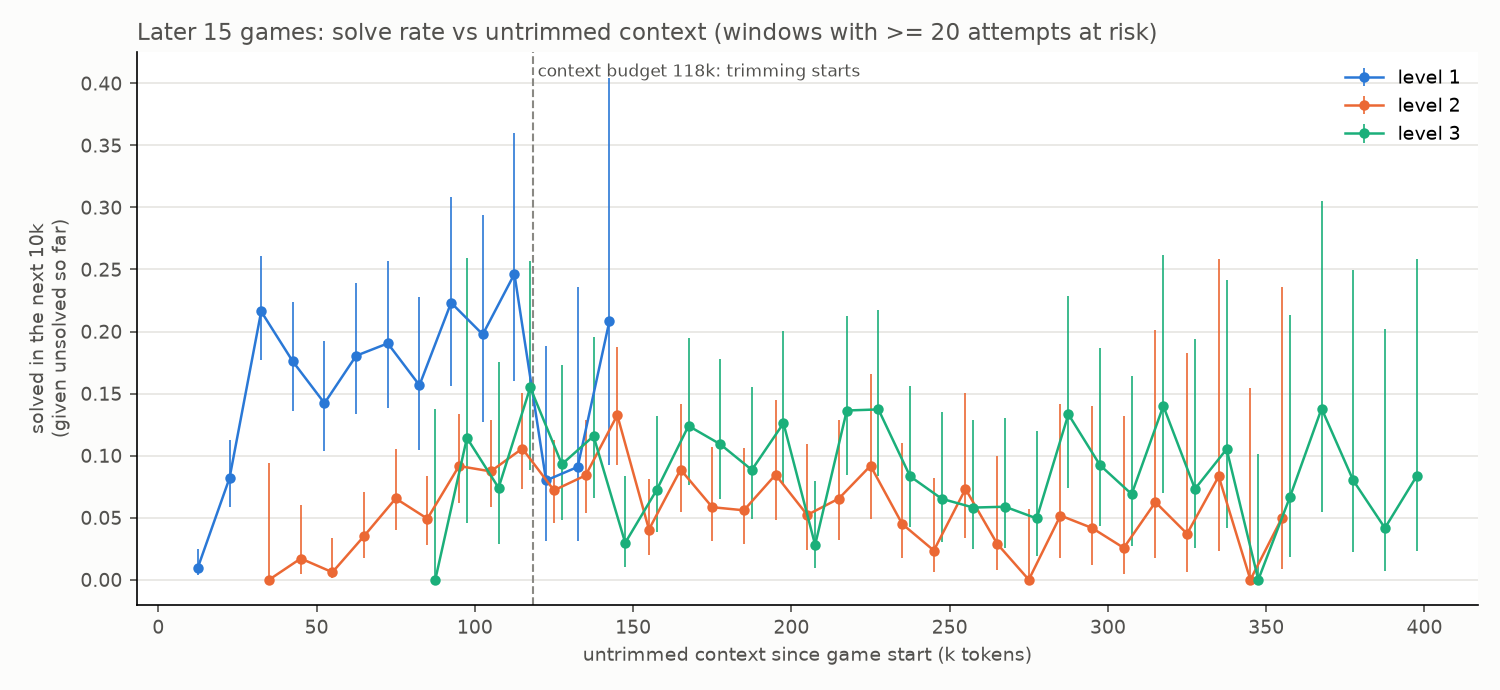
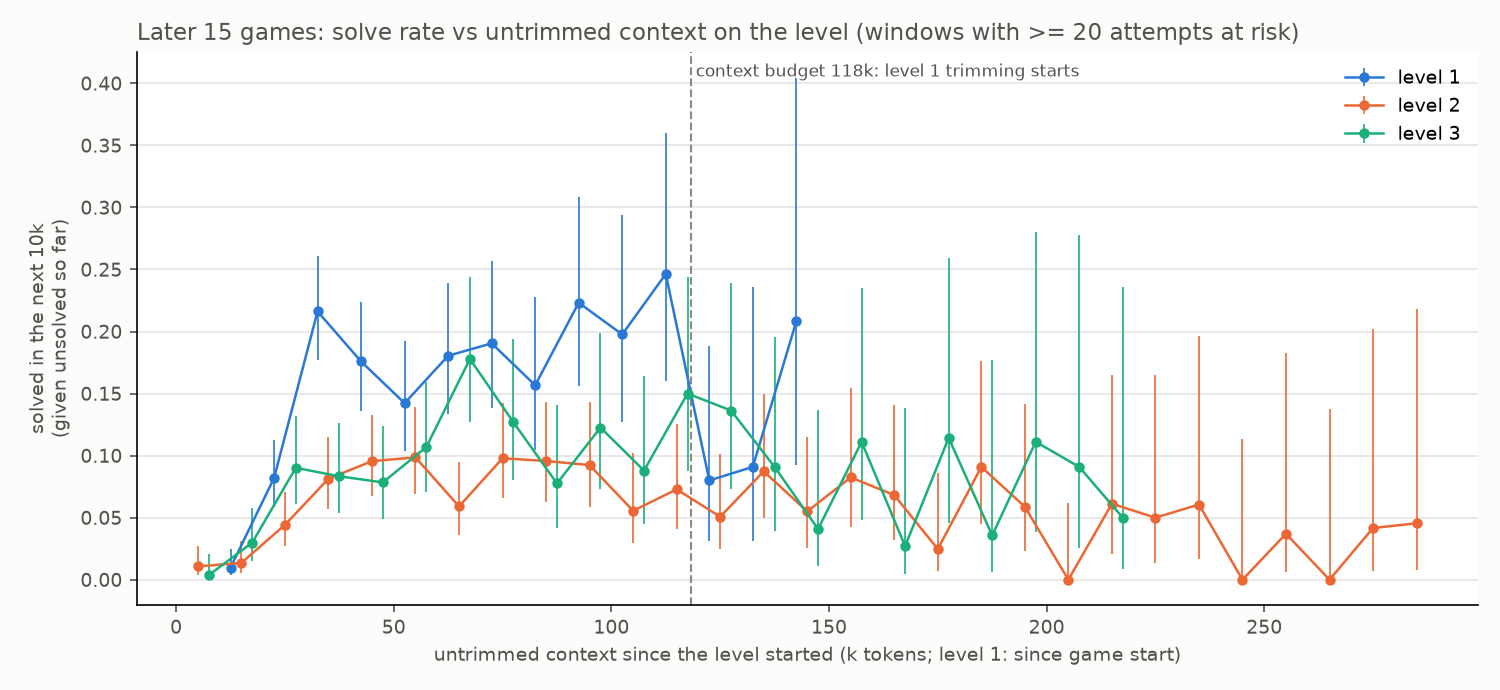
Measure solve-rate x from each level's start (level 1 from game start)

diff --git a/docs/harness/scripts/solve_rate_vs_context.py b/docs/harness/scripts/solve_rate_vs_context.py
@@ -185,9 +185,14 @@ def wilson(k, n, z=1.96):
 def main():
     coef = calibrate()
     df = attempts(coef)
+    # x = untrimmed context added since the level started; level 1 counts from
+    # game start, so its base prompt is included and the budget line applies
+    later = df.level > 1
+    df.loc[later, "end"] = df.loc[later, "end"] - df.loc[later, "start"]
+    df.loc[later, "start"] = 0.0
     for level in (1, 2, 3):
         d = df[df.level == level]
-        print(f"level {level}: {d.solved.sum()}/{len(d)} solved; start median {d.start.median() / 1000:.0f}k, "
+        print(f"level {level}: {d.solved.sum()}/{len(d)} solved; "
               f"solve point median {d[d.solved].end.median() / 1000:.0f}k")
     fig, ax = plt.subplots(figsize=(10, 4.6))
     for level, shift in ((1, -2.5), (2, 0), (3, 2.5)):
@@ -198,17 +203,17 @@ def main():
         ax.errorbar(x, t.rate, yerr=[t.rate - ci[:, 0], ci[:, 1] - t.rate], fmt="o-", color=COLORS[level],
                     markersize=4, linewidth=1.2, elinewidth=0.8, label=f"level {level}")
     ax.axvline(BUDGET / 1000, color=MUTED, linestyle="--", linewidth=1)
-    ax.text(BUDGET / 1000, 0.98, f" context budget {BUDGET / 1000:.0f}k: trimming starts", color=INK, fontsize=8,
+    ax.text(BUDGET / 1000, 0.98, f" context budget {BUDGET / 1000:.0f}k: level 1 trimming starts", color=INK, fontsize=8,
             va="top", transform=ax.get_xaxis_transform())
     for side in ("top", "right"):
         ax.spines[side].set_visible(False)
     ax.grid(axis="y", color="#e6e5e1", linewidth=0.8)
     ax.set_axisbelow(True)
     ax.tick_params(colors=INK, labelsize=9)
-    ax.set_xlabel("untrimmed context since game start (k tokens)", color=INK, fontsize=9)
+    ax.set_xlabel("untrimmed context since the level started (k tokens; level 1: since game start)", color=INK, fontsize=9)
     ax.set_ylabel("solved in the next 10k\n(given unsolved so far)", color=INK, fontsize=9)
     ax.legend(frameon=False, fontsize=9, loc="upper right")
-    ax.set_title(f"Later 15 games: solve rate vs untrimmed context (windows with >= {MIN_AT_RISK} attempts at risk)",
+    ax.set_title(f"Later 15 games: solve rate vs untrimmed context on the level (windows with >= {MIN_AT_RISK} attempts at risk)",
                  color=INK, fontsize=11, loc="left")
     fig.tight_layout()
     os.makedirs(os.path.dirname(OUT), exist_ok=True)

diff --git a/docs/harness/solve-rate-vs-context.md b/docs/harness/solve-rate-vs-context.md
@@ -4,7 +4,7 @@ Question: on the 15 harder public games, does the chance of solving the current 
 
 ![Solve rate vs untrimmed context](images/solve-rate-vs-context.png)
 
-**Answer: level 1 dips at the trimming line; levels 2 and 3 do not.** Level 1 holds at roughly 15-25% per 10k tokens from 30k to 118k, then drops to about 8-9% in the next two windows. Level 2 climbs to about 9-11% by 90-140k, then sits near 5-8%. Level 3 stays at about 7-14% from 100k to 400k.
+**Answer: level 1 dips at the trimming line; levels 2 and 3 do not.** Level 1 holds at roughly 15-25% per 10k tokens from 30k to 118k, then drops to about 8-9% in the next two windows. Measured from the start of each level, level 2 ramps up over the first 40k to about 8-10%, holds there to about 100k, then sits near 5-7%. Level 3 ramps up over the first 50k, peaks at 13-18% around 60-80k, holds at about 10-15% to 130k, then falls off. Their trimming points vary with how full the context was when the level began, so the budget line applies to level 1 only.
 
 The level-1 dip: of attempts unsolved at 90k, 55/112 (49%) solved before 118k; of those unsolved at 118k, 16/54 (30%) solved before 150k (Fisher's exact on that 2x2 table: odds ratio 2.29, p = 0.020, optimistic because an attempt can be in both rows). It is not uniform: bp35 20/25 -> 2/5, g50t 10/19 -> 2/7 and cd82 6/12 -> 2/6 drop, while sk48 rises 4/26 -> 6/21. Part of it comes from which games are still on level 1 by then: 21 of the 54 attempts past 118k are sk48. Comparing within the same game, the odds ratio is 0.60 (95% CI 0.28-1.27, p = 0.18). The direction fits trimming hurting level 1, but this sample cannot separate it from hard games remaining.
 
@@ -19,7 +19,7 @@ Before trimming, level 1 gets easier as context grows. From 30k to 118k, within 
 
 ## Method
 
-**x-axis.** x is the context the game would have if history were never trimmed: everything that entered the conversation since the game started.
+**x-axis.** x is the untrimmed context added since the level started: everything that entered the conversation since the previous level-up, as if history were never trimmed. Level 1 counts from game start, so it includes the base prompt.
 - Only five runs log server `prompt_tokens`, so x is rebuilt from each transcript. It counts user prompts, thinking, replies, tool calls and tool results, plus a cost per attached image. The per-turn copy of the system prompt and the status blocks are excluded.
 - The fit (`base + chars/2.92 + 350 * images`) uses the runs that saved request logs, at each turn's first request before the game's first trim (n = 2,347).
 - Median absolute error is 3.3%, and the 90th percentile is 8.5%.
